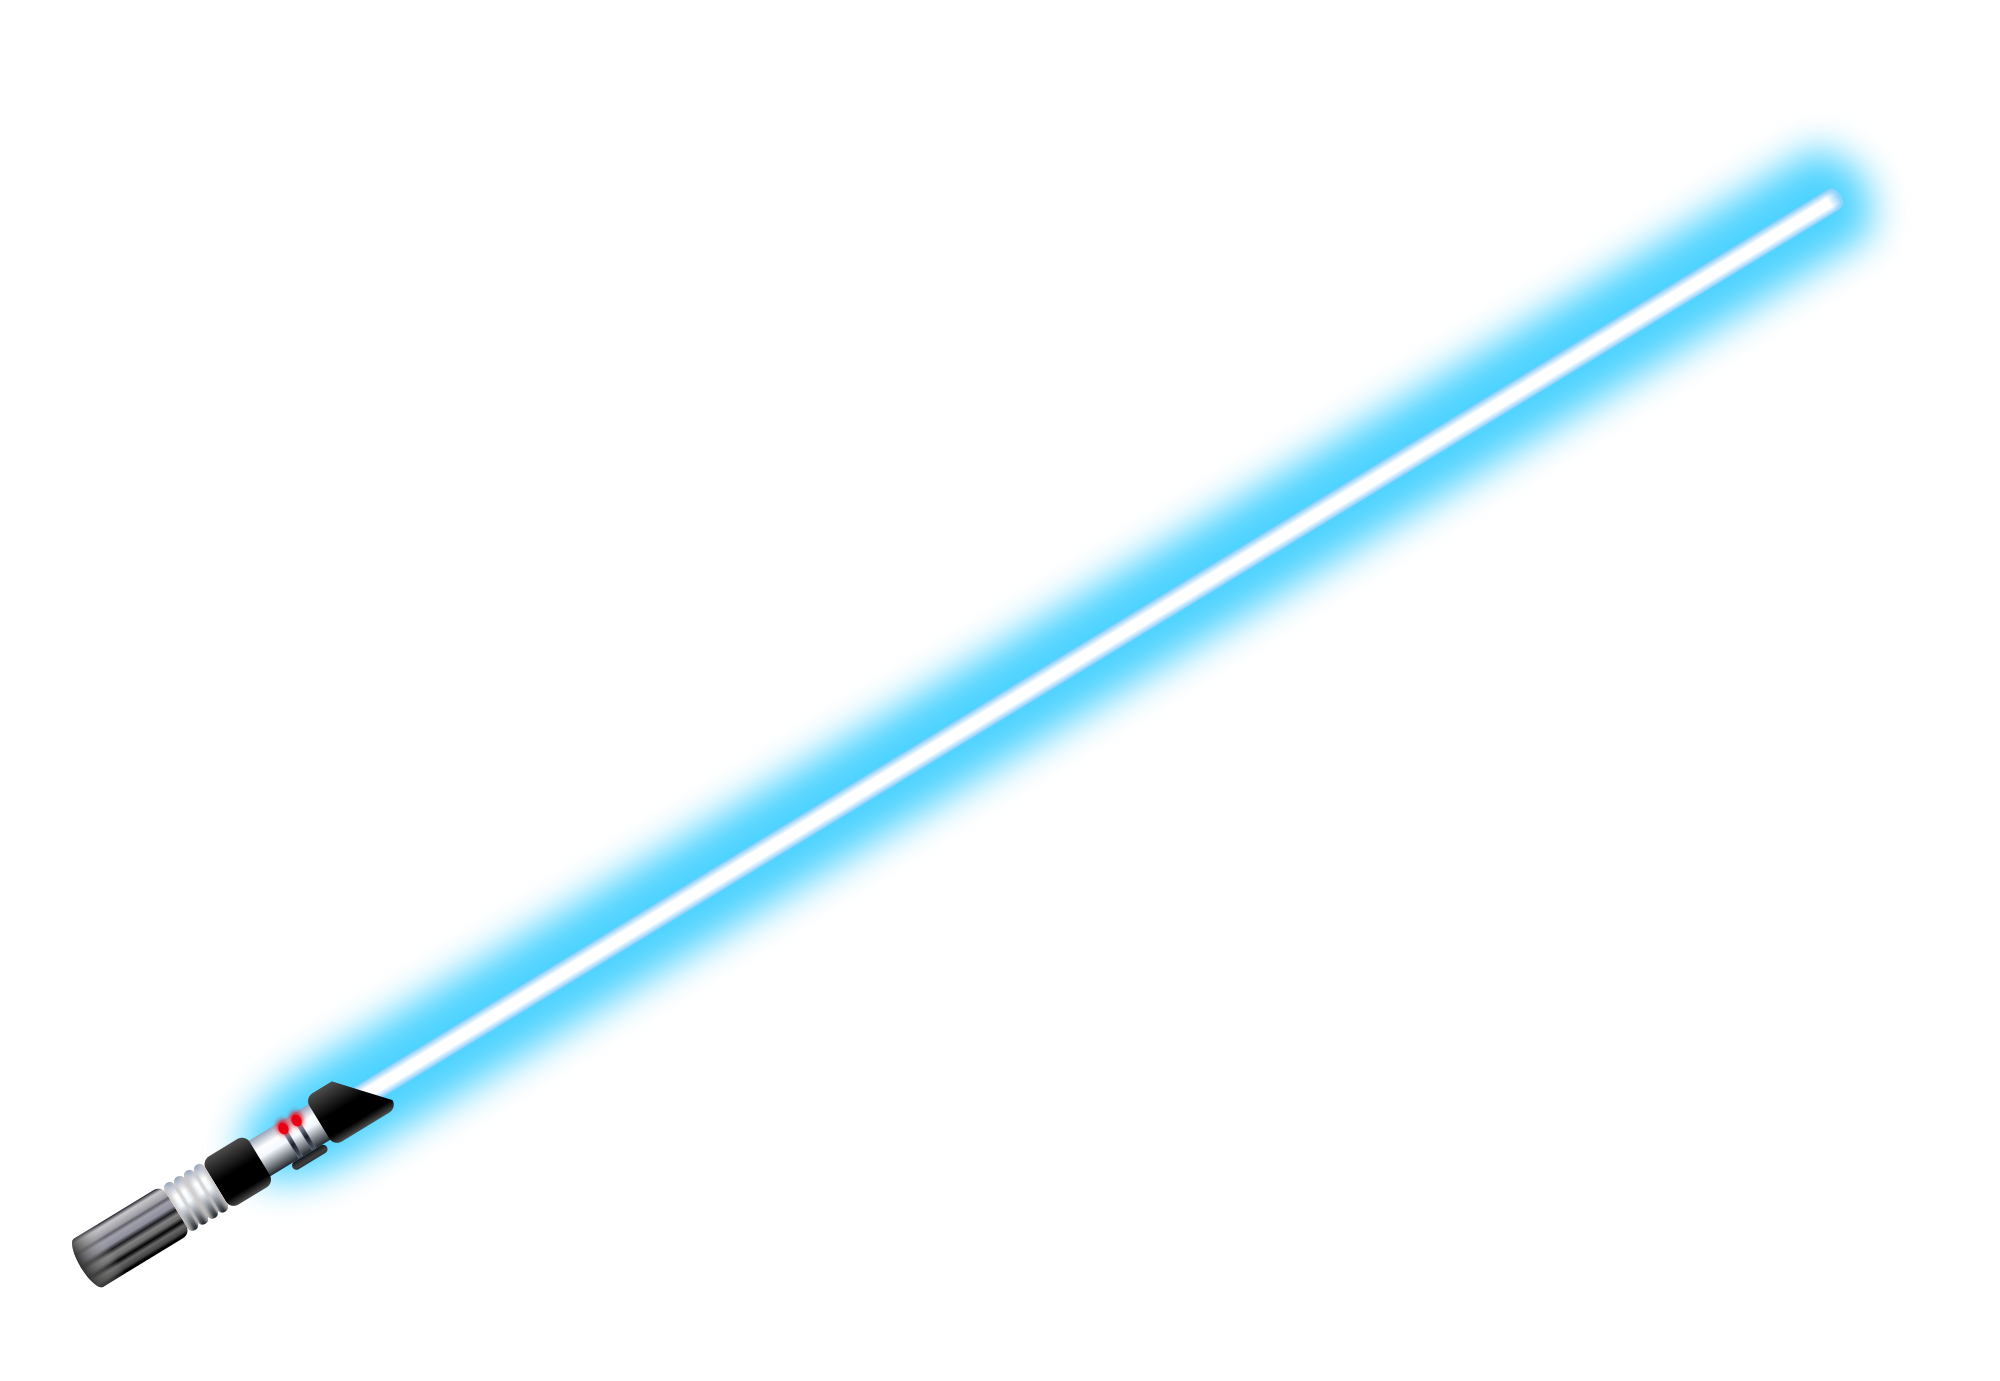
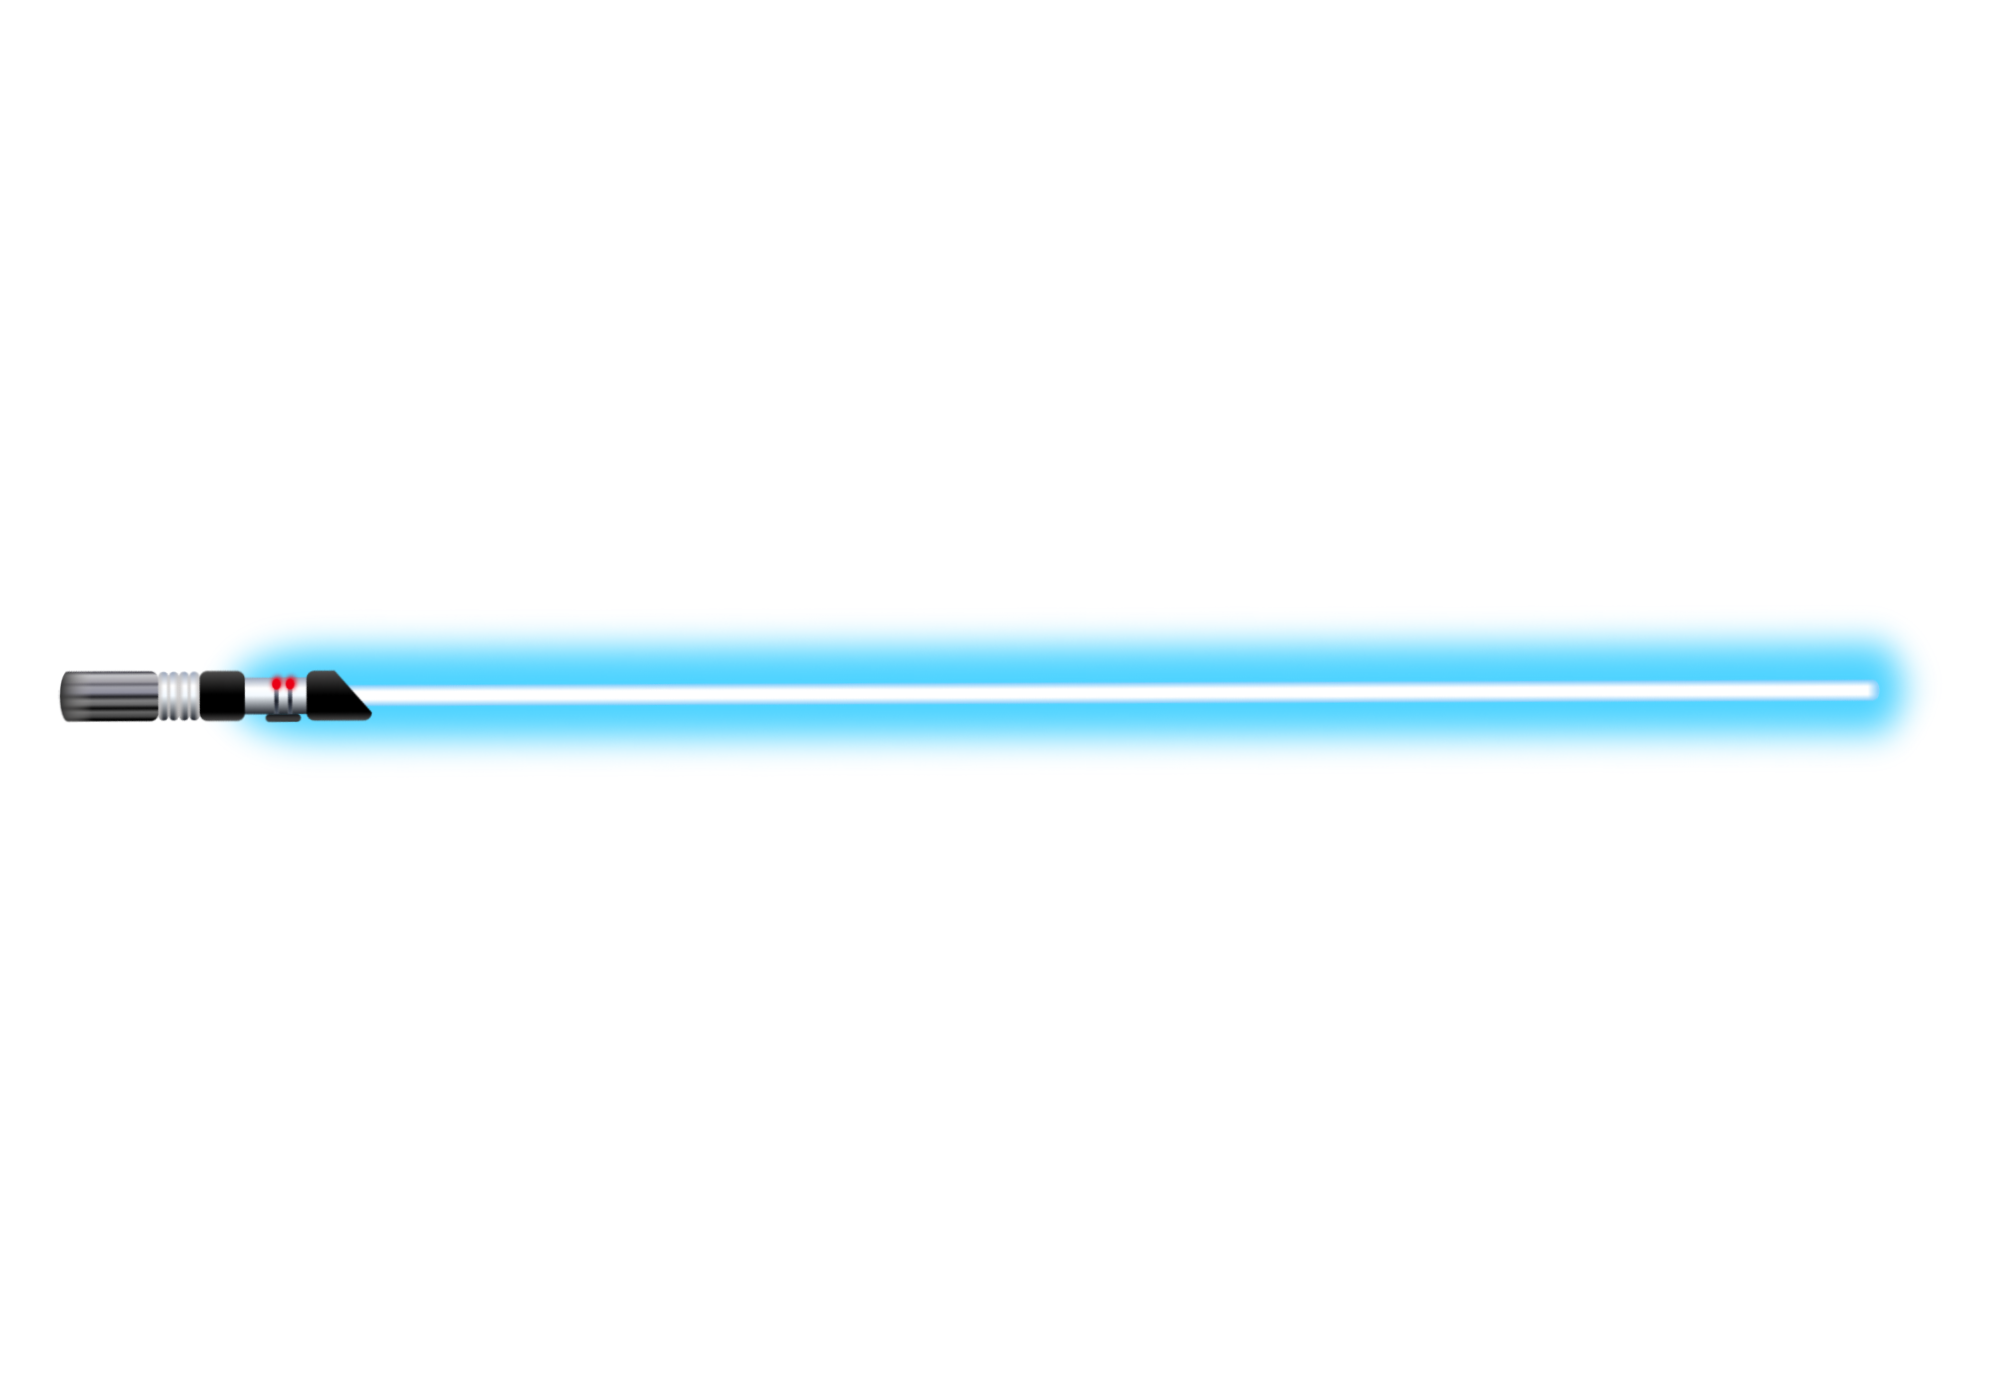
Creacion de todas las paginas, style de cada uno y pagina inicio hecha y empezada el contenido

Changed region(s): [[0.031, 0.0934, 0.961, 0.9341]]

diff --git a/style.css b/style.css
@@ -11,6 +11,10 @@ body{
     color: white;
     text-align: center;
 }
+#sable_titulo{
+    width: 13em;
+    
+}
 main{
     display: flex;
 }
@@ -22,11 +26,14 @@ main{
     font: 0.95em;
 }
 :any-link{
+    color:inherit;
     transition: 1.2s;
-
     text-decoration: none;
-    background: linear-gradient();
+
     
+}
+:visited{
+    color:inherit;
 }
 .jedi a:hover{
   color: rgb(0, 255, 255);

diff --git a/index.html b/index.html
@@ -7,7 +7,7 @@
     <body>
 
         <h1 class="titulos">STAR WARS</h1>
-
+        <img id="sable_titulo" src="./Head/Sable_Azul.png" alt="Sable Azul">
       
         
         <main>
